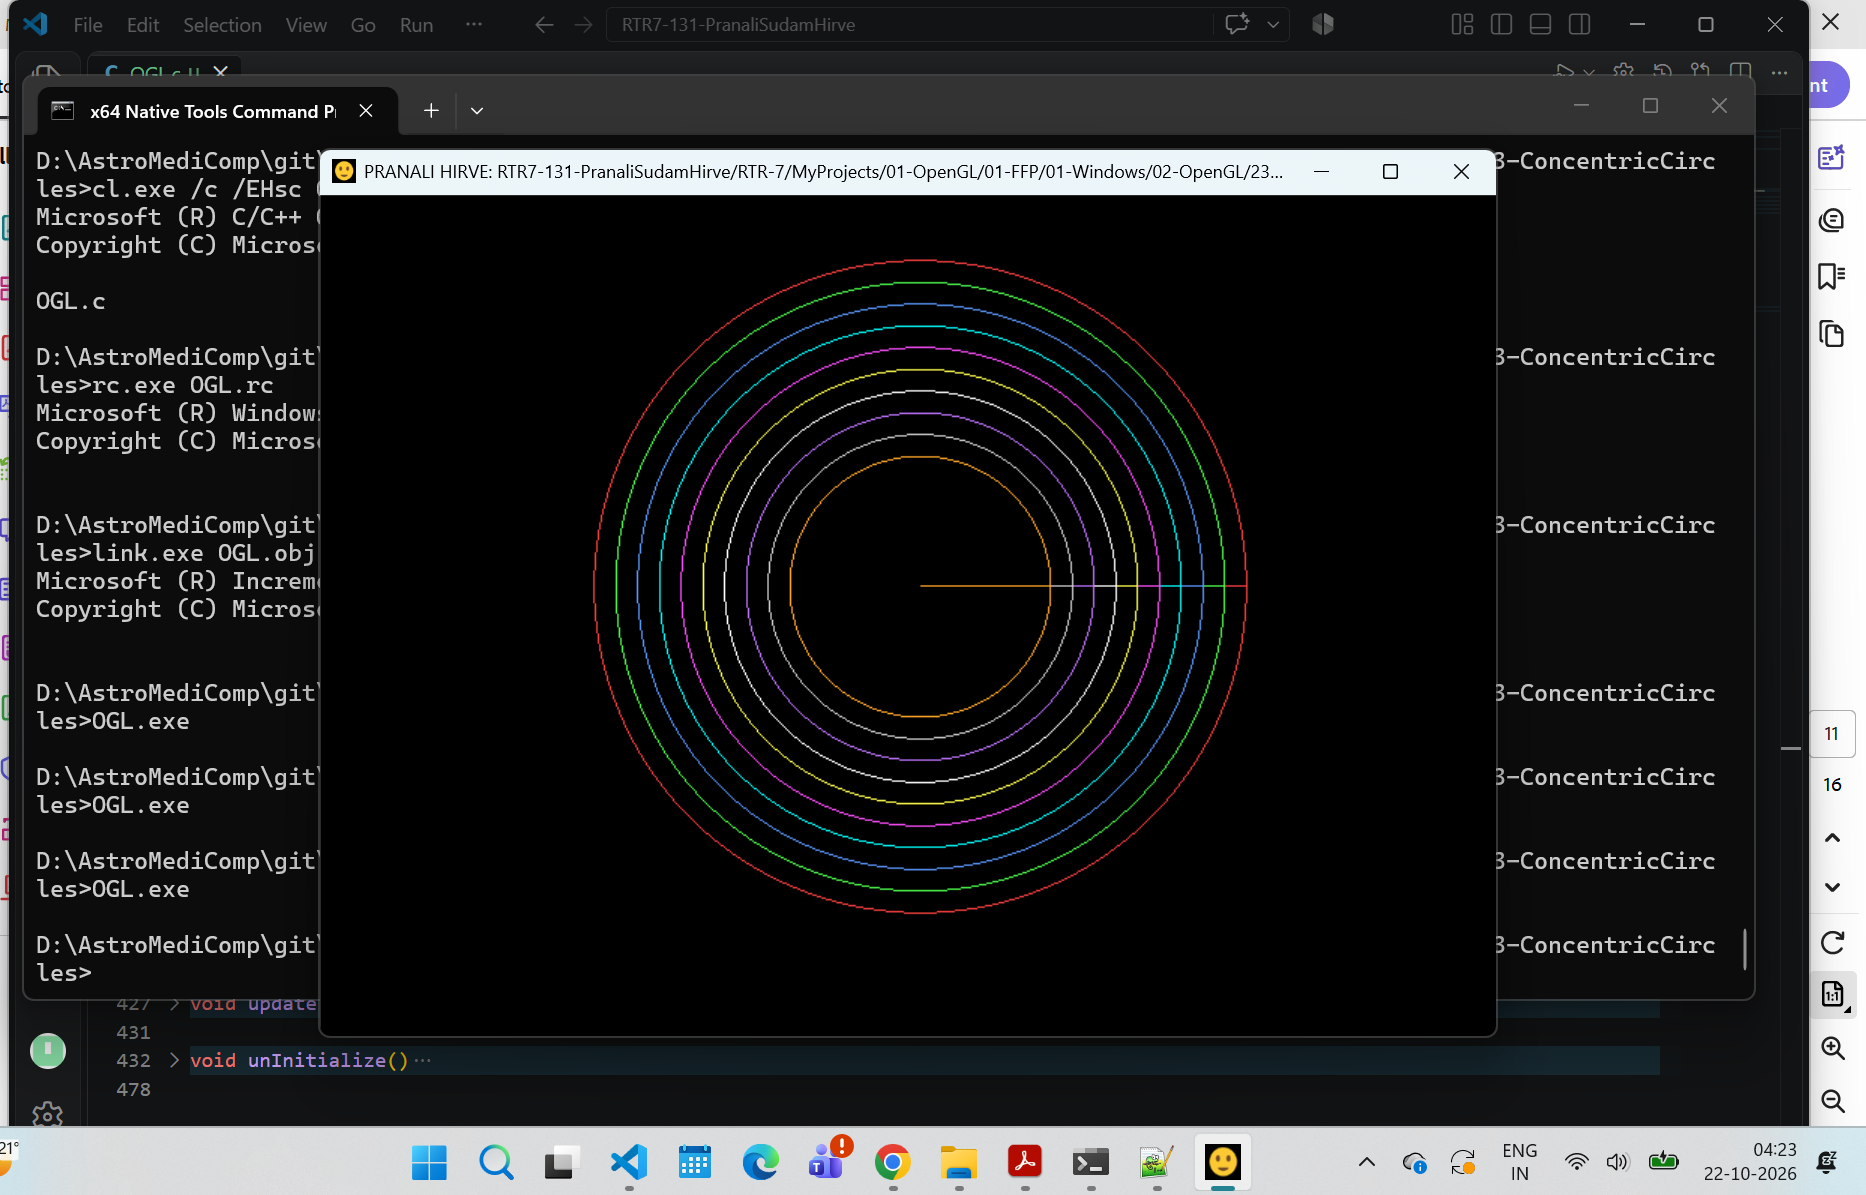
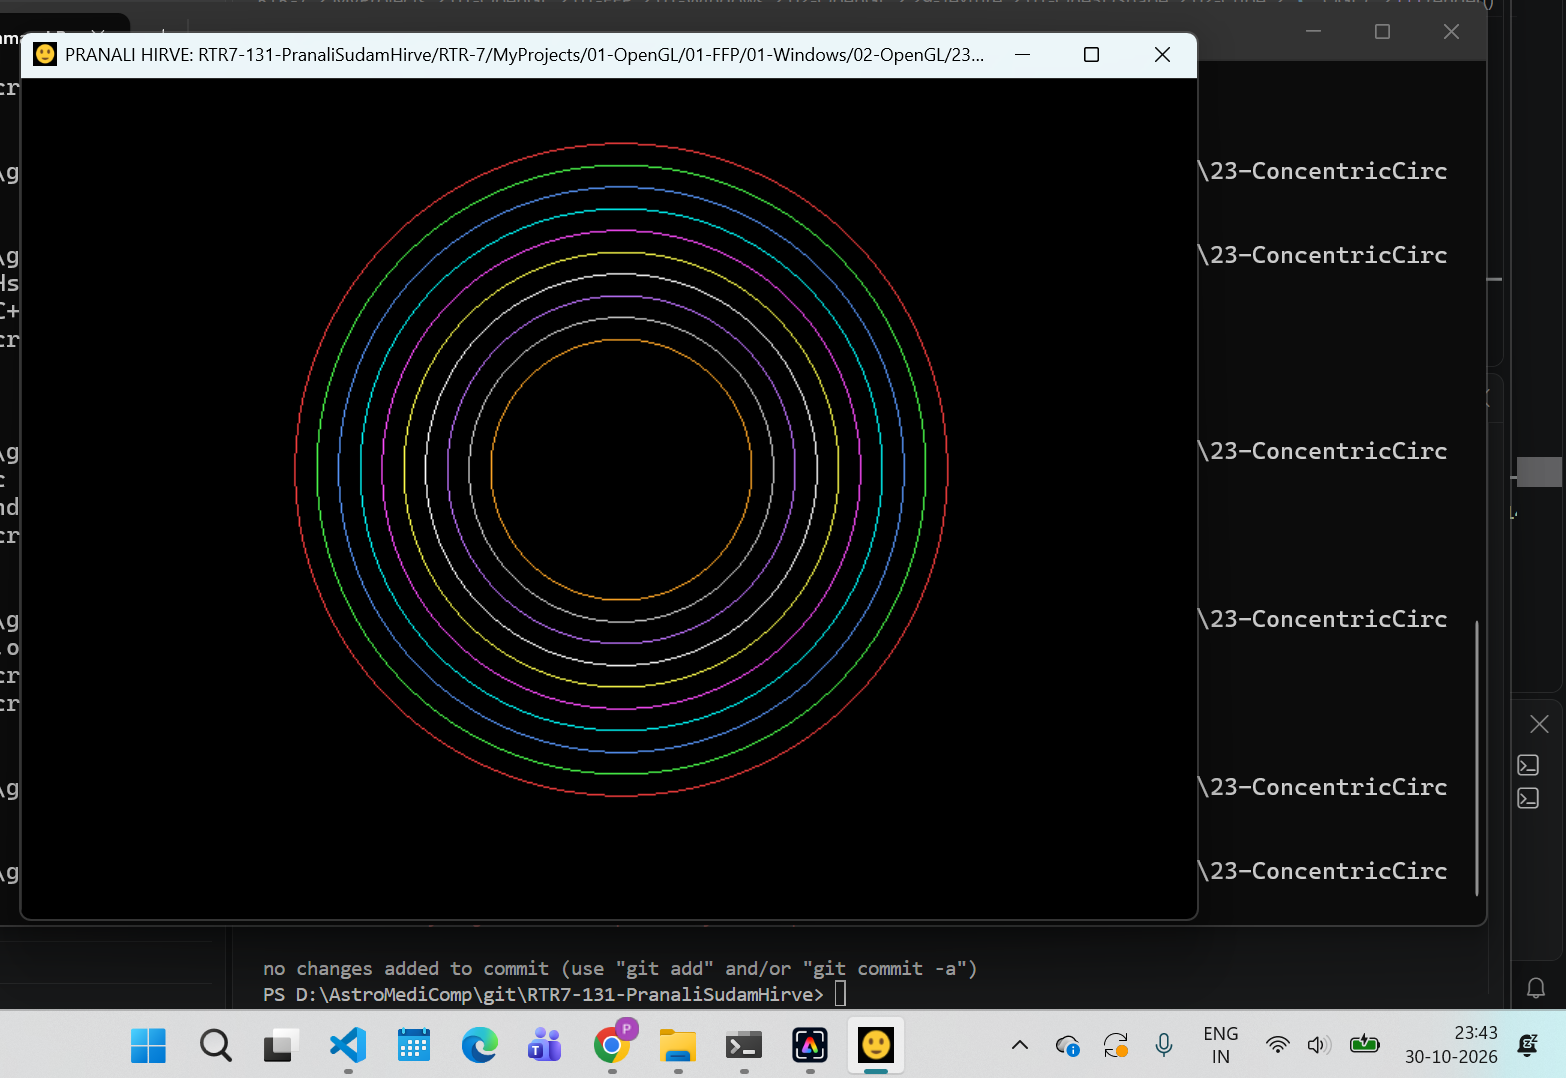
RTR-7/MyProjects/01-OpenGL/01-FFP/01-Windows/02-OpenGL/23-ConcentricCircles

Changed region(s): [[0.0, 0.0, 1.0, 1.0], [0.7969, 0.2755, 0.9195, 0.3061]]

diff --git a/RTR-7/MyProjects/01-OpenGL/01-FFP/01-Windows/02-OpenGL/23-ConcentricCircles/OGL.c b/RTR-7/MyProjects/01-OpenGL/01-FFP/01-Windows/02-OpenGL/23-ConcentricCircles/OGL.c
@@ -408,15 +408,13 @@ void drawCircles(float radius, GLfloat r, GLfloat g, GLfloat b)
 
     glBegin(GL_LINE_LOOP);
 
-    glVertex3f(0.0f, 0.0f, 0.0f);
-
     for(int i = 0; i <= 360; i++)
     {
-        float angle = 2.0f * 3.14159265f * i / 360.0f;
+        float angle =  3.14159265f/ 180.0f;
 
         glVertex3f(
-            radius * cosf(angle),
-            radius * sinf(angle),
+            radius * cosf(angle * i),
+            radius * sinf(angle * i),
             0.0f
         );
     }
